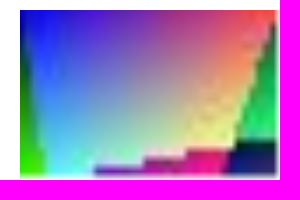
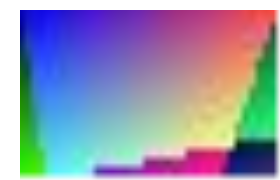
fix: use the metafile extent as the codec-jpeg playback reference
The 280x180 render is the metafile extent (header bounds 0..279 x 0..179);
the 9,600 pixels the 300x200 reference added were the probe's own magenta
surface. The reference is now cropped to the extent and the original surface
is kept as .surface.png.

Claude-Session: https://claude.ai/code/session_01AyRRnaFU7HEvaoGiQD4WB6

diff --git a/src/image-codec-native.test.ts b/src/image-codec-native.test.ts
@@ -197,3 +197,25 @@ it.each([
 	expect(exact).toBe(exactCount);
 	expect(max).toBeLessThanOrEqual(maxError);
 });
+
+// The probe plays each metafile onto a 300 x 200 magenta surface; the metafile (header bounds 0..279 x 0..179, frame 4338 x
+// 2784 hundredths of a millimetre) covers 280 x 180 of it. The margin right and below is the surface's own background, so the
+// reference is the 280 x 180 extent (as rendered) and the whole surface is kept as `.surface.png`.
+it.each(['12bit', 'arithmetic', 'arith-prog-420-dri2', 'cmyk-photo'])('the %s playback reference is the metafile extent, with the full surface kept beside it', async (name) => {
+	const file = `codec-jpeg-${name}-playback`;
+	const rendered = (await renderFixture(`${file}.emf`))!;
+	const reference = await loadReference(file);
+	const surface = await loadReference(`${file}.surface`);
+	expect([rendered.width, rendered.height]).toEqual([280, 180]);
+	expect([reference.width, reference.height]).toEqual([280, 180]);
+	expect([surface.width, surface.height]).toEqual([300, 200]);
+	for (let y = 0; y < surface.height; y++) {
+		for (let x = 0; x < surface.width; x++) {
+			const s = (y * surface.width + x) * 4;
+			if (x < 280 && y < 180) {
+				const r = (y * reference.width + x) * 4;
+				if (surface.data[s] !== reference.data[r] || surface.data[s + 1] !== reference.data[r + 1] || surface.data[s + 2] !== reference.data[r + 2]) throw new Error(`${file}: surface differs from reference at ${x},${y}`);
+			} else if (surface.data[s] !== 255 || surface.data[s + 1] !== 0 || surface.data[s + 2] !== 255) throw new Error(`${file}: surface margin is not magenta at ${x},${y}`);
+		}
+	}
+});

diff --git a/scripts/gdi-fixtures/CodecProbe.cs b/scripts/gdi-fixtures/CodecProbe.cs
@@ -62,7 +62,11 @@ public static class CodecProbe
 		{
 			g.Clear(Color.Magenta);
 			g.DrawImage(mf, new Rectangle(0, 0, mf.Width, mf.Height), 0, 0, mf.Width, mf.Height, GraphicsUnit.Pixel);
-			output.Save(Path.Combine(dir, "codec-jpeg-" + name + "-playback.png"), ImageFormat.Png);
+			// The whole 300 x 200 surface (the magenta margin right and below the metafile is the probe's own background, not
+			// playback output) is kept as .surface.png; the reference is the metafile's own extent, as the converter renders it.
+			output.Save(Path.Combine(dir, "codec-jpeg-" + name + "-playback.surface.png"), ImageFormat.Png);
+			using (var cropped = output.Clone(new Rectangle(0, 0, mf.Width, mf.Height), PixelFormat.Format32bppArgb))
+				cropped.Save(Path.Combine(dir, "codec-jpeg-" + name + "-playback.png"), ImageFormat.Png);
 		}
 	}
 	/// <summary>Rebuilds an EMR_COMMENT holding EMF+ records with the JPEG inside its image object replaced.</summary>

diff --git a/docs/outstanding-work.md b/docs/outstanding-work.md
@@ -8,13 +8,13 @@ Independent fractional RoundRect translation controls cover 576 paths in both ar
 
 ## Current parity priorities (8 October 2026)
 
-The full suite passes: 186 files, 6,328 tests (8 October 2026, after round 5). Passing the existing bounds does not mean pixel-exact playback. `bun scripts/gdi-fixtures/report.ts` uses available Windows fixture fonts, reports both zero-tolerance and >8-level RGB differences, includes overlap edges, and prints rendered/reference dimensions. On this machine (report regenerated on 8 October 2026 on the head that includes rounds 1 to 5; 420 of 625 and 417 of 625 at the end of round 4, 396 of 614 and 394 of 614 at the start of round 4; the comparison count grew by 112 with the round-5 sheets), 509 of 737 comparisons are RGB-exact over their common device area, with no render failures; 506 of 737 also have complete RGB ink coverage (503 before round 6) (white margins ignored, alpha checked separately only where individual tests require it). Only four `codec-jpeg-*-playback` comparisons (`12bit`, `arithmetic`, `arith-prog-420-dri2` and `cmyk-photo`) omit reference ink (9,600 reference pixels each, because their 280x180 render is smaller than the 300x200 reference; outside this workstream), and 11 contain rendered ink beyond the captured reference (18 before round 6) (the nine clipped references of References, the two regenerated raster-face captures `textx-fon-system.regen` and `textx-fon-fixedsys.regen`, whose output equals their own `.regen.wide` captures, `src/gdi-text-regeneration.fixture.test.ts`, and, before round 6, seven `compat-playback-*` sheets, the `geosq9` sheets of the identity, 32x11, 34 and 43 maps and the `wide7` sheets of the identity, 32x11 and 34 maps, where our output is 1 to 90 pixels larger than the 420 x 300 capture and 16 to 260 inked pixels fell outside it; round 6 played the seven natively into larger surfaces: the ink beyond the capture is at negative device coordinates (the converter canvas origins are -1 to -8 in x and -5 to -53 in y), Windows paints exactly those pixels and no others, the original overlap is reproduced pixel for pixel, and the differences over the full area equal the sheets' residuals in `src/emf-compat-playback.fixture.test.ts` (0, 0, 0, 2, 7, 55 and 6 pixels), so the extra ink was right and the 420 x 300 captures were the clipped side). Expanded native playback covers 101 formerly uncaptured extents and reproduces every original overlap pixel (`src/gdi-playback-extents.fixture.test.ts`); 71 of the 101 full-area controls are exact and the others differ chiefly in text. The remaining 9 captures did not reproduce the original reference; their native playback is committed as `.wide.png` and shows the converter extent is right. This is a local baseline, not a claim of full-image or cross-environment parity: references are composited over white, alpha is not compared independently, dimensions can differ, and old font captures have incomplete provenance.
+The full suite passes: 186 files, 6,328 tests (8 October 2026, after round 5). Passing the existing bounds does not mean pixel-exact playback. `bun scripts/gdi-fixtures/report.ts` uses available Windows fixture fonts, reports both zero-tolerance and >8-level RGB differences, includes overlap edges, and prints rendered/reference dimensions. On this machine (report regenerated on 8 October 2026 on the head that includes rounds 1 to 5; 420 of 625 and 417 of 625 at the end of round 4, 396 of 614 and 394 of 614 at the start of round 4; the comparison count grew by 112 with the round-5 sheets), 509 of 737 comparisons are RGB-exact over their common device area, with no render failures; 507 of 737 also have complete RGB ink coverage (503 before round 6) (white margins ignored, alpha checked separately only where individual tests require it). No comparison omits reference ink since round 6 (the four `codec-jpeg-*-playback` comparisons, `12bit`, `arithmetic`, `arith-prog-420-dri2` and `cmyk-photo`, used to: their 280x180 render was smaller than the 300x200 reference, 9,600 pixels each; the 9,600 pixels were the probe's own magenta surface, see References), and 11 contain rendered ink beyond the captured reference (18 before round 6) (the nine clipped references of References, the two regenerated raster-face captures `textx-fon-system.regen` and `textx-fon-fixedsys.regen`, whose output equals their own `.regen.wide` captures, `src/gdi-text-regeneration.fixture.test.ts`, and, before round 6, seven `compat-playback-*` sheets, the `geosq9` sheets of the identity, 32x11, 34 and 43 maps and the `wide7` sheets of the identity, 32x11 and 34 maps, where our output is 1 to 90 pixels larger than the 420 x 300 capture and 16 to 260 inked pixels fell outside it; round 6 played the seven natively into larger surfaces: the ink beyond the capture is at negative device coordinates (the converter canvas origins are -1 to -8 in x and -5 to -53 in y), Windows paints exactly those pixels and no others, the original overlap is reproduced pixel for pixel, and the differences over the full area equal the sheets' residuals in `src/emf-compat-playback.fixture.test.ts` (0, 0, 0, 2, 7, 55 and 6 pixels), so the extra ink was right and the 420 x 300 captures were the clipped side). Expanded native playback covers 101 formerly uncaptured extents and reproduces every original overlap pixel (`src/gdi-playback-extents.fixture.test.ts`); 71 of the 101 full-area controls are exact and the others differ chiefly in text. The remaining 9 captures did not reproduce the original reference; their native playback is committed as `.wide.png` and shows the converter extent is right. This is a local baseline, not a claim of full-image or cross-environment parity: references are composited over white, alpha is not compared independently, dimensions can differ, and old font captures have incomplete provenance.
 
 Work in this order, using native captures and tighter regression bounds for every confirmed fix:
 
 | Priority | Gap | Evidence and next step |
 | --- | --- | --- |
-| 1 | End-to-end reference validity and coverage | **Rounds 1 to 5 closed:** the playback extents (101 expanded captures validated, all reproduce their original overlap; round 6 added the seven `compat-playback-*` sheets whose output extends past the 420 x 300 capture), the nine ink-beyond-reference text comparisons as clipped references, the HALFTONE transition, selection and arrangement controls and the eight pen anchor/dash reference-scaling discrepancies. **Closed as not reproducible by a stateless converter:** `textx-fon-system` and `textx-fon-fixedsys` against their original PNGs, because the originals were drawn from the 96 dpi VGA raster set and this machine adds the 8514 faces (given the matching font set the converter reproduces both regenerated captures exactly). **Remains:** the glyph residuals of row 2; the four `codec-jpeg-*-playback` comparisons that omit reference ink (their 280x180 render is smaller than the 300x200 reference). The nine remaining ink-beyond-reference text comparisons are settled as clipped references (see References below), not output-extent errors; their glyphs were recaptured on 8 October 2026 (seven reproduce directly; the Arial gaps are recorded-advance differences, see References; Segoe UI large lines, the rotated text and the two raster faces are explained there as well and still differ from their originals), then the text residuals exposed by the 94 validated expanded native captures. `emfrec-ca-control-log-ramp` is now pixel-exact (it was a 15.61% >8-level residual: its source takes the filtered branch). The 144 `halftone-transitions`, 240 `halftone-selection` and 50 `halftone-arrangement` captures all follow the selection rule in the HALFTONE section below; all 50 arrangement controls and all 240 selection controls are exact (the 48 filtered 3x stretches closed on 8 October 2026, see HALFTONE below). The eight pen anchor/dash reference-scaling discrepancies are closed. |
+| 1 | End-to-end reference validity and coverage | **Rounds 1 to 5 closed:** the playback extents (101 expanded captures validated, all reproduce their original overlap; round 6 added the seven `compat-playback-*` sheets whose output extends past the 420 x 300 capture), the nine ink-beyond-reference text comparisons as clipped references, the HALFTONE transition, selection and arrangement controls and the eight pen anchor/dash reference-scaling discrepancies. **Closed in round 6:** the four `codec-jpeg-*-playback` comparisons (the 280x180 extent is right; the 300x200 reference carried 9,600 pixels of the probe's own magenta surface). **Closed as not reproducible by a stateless converter:** `textx-fon-system` and `textx-fon-fixedsys` against their original PNGs, because the originals were drawn from the 96 dpi VGA raster set and this machine adds the 8514 faces (given the matching font set the converter reproduces both regenerated captures exactly). **Remains:** the glyph residuals of row 2. The nine remaining ink-beyond-reference text comparisons are settled as clipped references (see References below), not output-extent errors; their glyphs were recaptured on 8 October 2026 (seven reproduce directly; the Arial gaps are recorded-advance differences, see References; Segoe UI large lines, the rotated text and the two raster faces are explained there as well and still differ from their originals), then the text residuals exposed by the 94 validated expanded native captures. `emfrec-ca-control-log-ramp` is now pixel-exact (it was a 15.61% >8-level residual: its source takes the filtered branch). The 144 `halftone-transitions`, 240 `halftone-selection` and 50 `halftone-arrangement` captures all follow the selection rule in the HALFTONE section below; all 50 arrangement controls and all 240 selection controls are exact (the 48 filtered 3x stretches closed on 8 October 2026, see HALFTONE below). The eight pen anchor/dash reference-scaling discrepancies are closed. |
 | 2 | Text coverage and rasterisation | **Rounds 1 to 5 closed:** grayscale quarter-pixel placement and coverage, ClearType sixth-pixel x origins, natural-width flags, the size-specific x SHPIX shifts, y DELTAPs after IUP[y], the instruction-budget bug, the monochrome default dropout control and grayscale SCANTYPE 0 and 4, the rotated-glyph matrix and the raster mapper's 5x horizontal stretch limit. **Closed as not reproducible by a stateless converter:** the per-product versus combined projection rounding of diagonal hinting (the native arithmetic of the references changes between runs on one machine, 2,492 of 31,584 captures; see Text, "Grayscale hinting and scan conversion"). **Remains:** ClearType diagonal and curved edges, Courier New, the stub rule for SCANTYPE 1 and 5, DrawString layout under ClearType, the stretch-sensitive heights of faces that follow neither rule; the data that would decide each is listed under Text. `textx-plus-antialias`, `textx-plus-antialiasgridfit`, `textx-plus-cleartype` and `gpx-rec-textcontrast` retain 3.11%, 2.49%, 9.55% and 2.84% beyond eight levels in the regenerated report of 8 October 2026 (the parity test's own metric gives 3.157%, 2.527% and 9.694% for the first three, and 10.216% for the ClearType sheet before the size-specific SHPIX and DELTAP rules). The three `textx-plus` antialias/ClearType PNGs were reproduced exactly with current native fonts, ruling out font drift for those comparisons. The 3,328 baseline-controlled `text-coverage` captures isolate glyphs from DrawString layout; 2,400 grayscale controls at quarter-pixel origins and every captured contrast mapping are exact. A further 1,664 ClearType captures verify 576 quarter-origin RGB controls and all per-channel contrast mappings. GDI+ coverage now truncates subpixel samples and reports natural widths to font hint programs. Fractional DriverString origins now preserve both grayscale phases and ClearType x phases. Of 144 independent DrawString controls, 88 closed glyph/format controls are exact. Independent 1/64-pixel x origins establish nearest-quarter grayscale placement: 1,280 additional controls are exact. A further 2,304 vertical-origin captures establish nearest-quarter grayscale y placement, closing another 1,280 controls with no capture regressions. Another 384 ClearType controls pin integer vertical placement. ClearType x origins now round to the nearest sixth pixel while retaining that fraction through scan conversion, closing 384 fine-origin RGB controls and preserving all prior exact captures. ClearType x hinting now honours native's size-specific SHPIX shifts (see Text): 80 more baseline-controlled ClearType controls are exact (Arial 16 `I`, `g`, `1`, `4`, `8`; 368 of the 832 contrast-0 captures, 288 before) and 3,720 new size/style captures go from 2,015 to 2,247 exact with one lost. Fine-origin channel differences fall from 42,600 to 22,432. Some formerly inexact captures retain larger local residuals; diagonal/base outline hinting remains open. Another 432 private diagnostic-font GetGlyphOutline controls isolate exact vector normalization and one-unit projection/movement errors. The candidate primitive correction regresses existing exact real-font controls and is not shipped. Another 1,728 independent GDI+ private-font captures pin 375 exact controls individually; the candidate still loses prior exact real-font controls and increases eleven formerly inexact diagnostic residuals. Another 576 signed native outlines and 2,304 signed GDI+ images isolate projection, original-distance scaling and movement arithmetic; 436 outlines and 1,344 signed images are currently exact with individual bounds. The candidate closes all signed outlines but increases four formerly inexact signed image residuals and still loses fifteen prior exact real-font controls, so it remains excluded from production. The fifteen are one glyph (`src/ttf-diagonal-projection.fixture.test.ts`): Arial 16 `y` under TextRenderingHintAntiAlias, fifteen origins that the two contrasts double to 30 captures, and the same candidate gains 64 captures of Times New Roman Italic 22 `a` (both AntiAlias and AntiAliasGridFit); over the 3,328 + 2 x 1,536 grayscale captures nothing else changes. The freedom-vector half of the candidate (`fDotP = 16384` when the vectors are equal) changes no capture, so the whole effect is the per-product projection. The first divergence in Arial `y` is an MDRP[0xC4] at byte 565 projecting the difference (142, -475) on (-15513, -5270): combined rounding gives 18, per-product 19, and native keeps 18 (the GDI diagnostic font `opcode-mdrp`, built from exactly these vectors and operands, follows per-product arithmetic through GetGlyphOutline, so classic GDI and GDI+ AntiAlias disagree on identical operands). Enumerating every assignment of the four (Arial) and four (Times New Roman Italic) disagreeing projections of the two glyphs and keeping the assignments that reproduce the native image determines three of them: Arial's MDRP project (142, -475) must be combined-rounded; Times New Roman Italic's MIRP dualProject (95, -52) and MDRP project (-16, -113) must be per-product rounded. The condition is therefore not the opcode (two MDRPs), not project against dualProject, not equal projection and freedom vectors (the Italic MDRP has them equal, Arial's does not, but the Italic MIRP's dual vector also differs from its freedom vector), and not a different rounding of the sum: truncating the exact sum fits all three determined projections but loses 576 closed captures, flooring it 574 (and gains 32), and rounding the exact sum to nearest, which is the production arithmetic, changes nothing. The two leads this left were followed in round 5 and neither separates the calls: the x coordinates of the v40 (ClearType-style) interpreter carrying more than 26.6 precision (unrounded x coordinates throughout, the crudest form, lose 2,819 and 4,349 captures), and GDI+ captures of the private diagnostic fonts through DrawDriverString with the AntiAlias hint (`text-opcode-coverage` and `text-vector-stage-coverage`, 3,072 and 2,560 images), because the references themselves change between runs. Round 5 (V1) closed this item as not reproducible by a stateless converter: no arithmetic condition separates the calls, and the exclusion tracks a native state that changes between runs (see Text, "Grayscale hinting and scan conversion"). |
 | 3 | Path-gradient and image-sampling arithmetic | **Rounds 1 to 5 closed:** uniform path gradients to the pixel without a focus (step count, nested copies, float32 copy index, tiles at fractional bounds, tips, pixels outside the boundary, pen, text and fill brushes), per-vertex surrounds as Gouraud fans, the measured integer cubic weights, reductions, mirrors and wraps of axis-aligned high-quality draws, the two-stage rotated draw, cropped vertical margins, DrawImage versus DrawImagePoints, and the positive end of the unit-scale Bicubic copy interval. **Remains, with the data that would decide it:** the ties of an isotropic focus and the strip solver of independent focus scales (a corner-triangle sweep with a focus, and one with independent scales, expose the float32 order of the per-axis copy test); the 24 step colours that native rounds up in the large captures (the number of steps from the centre colour); tiles with rotation, shear or per-vertex surrounds; the step of a reciprocal near a half and the few-unit position jitter (a grid of source widths and heights at 1.37x and 1.55x); the unit-scale vertical margin of cropped draws (the float32 evaluation order of the matrix inverse); rotated wrap rings and rotated Half at 45 degrees and 0.5x (rotated draws at integral lengths; the same draw from several world transforms); reduction ties at the end of the kernel; plain Bilinear arithmetic; the 40 of 252 focus-contour controls with 57 boundary pixels. Independent FocusScales, folded contour coverage and curve subdivision are corrected. Seven rectangle/ellipse controls and seven triangle controls are within one channel level; both collapsed triangle focus lines are within one channel level. Path-gradient steps are reproduced for uniform surrounds (see EMF+ gradients): the ellipse wrap fixtures now differ at zero tolerance on 0.9% of pixels (from 51–52%) and the Blend and 50/50 focus fixtures are exact; plain Bicubic PNG is RGB-exact across all 16,000 fixture pixels (previously 7,127 differing pixels, maximum seven). All 144 native arithmetic controls are exact, including premultiplied alpha (round 4: all 288 `hq-arithmetic` captures and, after round 5, 172 of 192 independent ones, `hq-arithmetic-bounds.json`). Another 384 independent phase captures improve from 347 to 384 exact (380 before round 5) with no per-case regression. Sixty-four independent crop/mirror controls improve from 10,474 to 132 differing pixels. SVG already offers device-resolution resampling through `imageResampling: 'exact'`; seven Chromium image/effect/transform controls match PNG RGB byte for byte in that mode. A chained exclusion clip is corrected, closing 4,000 SVG-vs-PNG pixels; native clip/z-order residuals remain ten one-level pixels. Default renderer scaling is preserved. High-quality interpolation had widespread 1–3-level errors; the measured integer cubic weights, destination-space reductions, mirrored and wrapped draws of round 4 bring the HighQuality image fixtures within one level (see EMF+ rotated high-quality DrawImage, which lists what is still open). Across 252 independent contour/order controls, 212 are within one level; the remaining 40 retain 57 boundary/overlap pixels beyond one level. Per-vertex surround colours are reproduced (see EMF+ gradients: 98.8% of 44,454 random-polygon pixels exact, the RGB triangles from 86% to 100% of pixels within a level). Anisotropic focus, the step count under rotation and shear and the rounding of the nested copies are reproduced too (see EMF+ gradients). Still open: the pixels on a slanted copy edge with an isotropic focus (without a focus every pixel on a copy's edge is reproduced by float32 arithmetic rounded toward minus infinity, and the tip pixels and the pixels outside the boundary are closed; see EMF+ gradients) and the strip solver's coverage pixels (tiles cut from fractional bounds are reproduced, tiles with a rotation, shear or per-vertex surrounds are not; see EMF+ gradients). Linear Blend tables are already exact. |
 | 4 | Red-eye, CMYK and HALFTONE generalisation | **Rounds 1 to 5 closed:** the HALFTONE enlargement kernel as a closed form (8,152 of 8,159 interior rows), the engine selection for mixed enlarge-and-reduce stretches, the one-axis reductions and dithered one-axis stretches, the despeckle weights and tie rule (6,400 blocks, 500 images) and the selection at reducing, fractional and wide scales; red-eye luma weights, carry, strength steps, fallback falloff and axis group. **Closed as not reproducible by a stateless converter:** the red-eye strength of an all-pure-red area after earlier calls (process state: 7 of 30 sequences differ between fresh processes), the red-eye output ties and symmetric scenes whose float32 centroid decides the axis pixels (the native accumulation is not observable from outside), and the last 0.26% of CMYK values (the module rounds twice and its integer arithmetic is not identified from its outputs; exact nodes would need about 400 KB against the 196 KB table). **Remains:** the seven kernel boundaries within 0.002 of a whole share and the tie rows at ratios just above 3, 4 and 15 (the same probe at every ratio with `(2x + 1) * n` divisible by `N`), the 0.15% to 0.3% colour-adjustment residual of dithered adjustments, alpha under HALFTONE. Red-eye Only playback retains 3/59/379 differing pixels (left/both/whole, from 12/68/380). The centroid weights are the redness over an integer luma `round((9 G + 2 B) / 11)` in every area, also those holding red of luma 0 (fresh-process captures showed that the earlier rule, previous weights for such areas, had been fitted to captures disturbed by earlier calls of the same process); the previous weights remain only for symmetric scenes whose float32 centroid is not exactly the pixel centre. The carry is the previous centroid once in pixel-index coordinates, the strength steps at luma spreads above 25, 40 and 80, a unique bright pixel is corrected completely with a halo of `5 d^2` levels, a centroid beyond the fallback circle falls back to the area middle with a falloff of at least `0.33 (1 - u)`, and the pixels exactly on the horizontal axis through the centroid are one sector group (the stage captures in `redeye-stages.json.gz`, `redeye-fresh`, `redeye-zero-fraction`, `redeye-fallback-strength` and `redeye-nudge` pin each). 170 of 192 independent (fresh-process) and 71 of 72 held-out controls are exact. Closed on 8 October 2026: (a) the strength of an all-pure-red area after earlier calls is process state, not a function of the area: 30 sequences run in 6 fresh processes each (`redeye-state.json.gz`) give different outputs for the same sequence in 7 cases (a pure-red 24 x 24 area after a spread-120 field removes 91 levels at the middle pixel in five processes and 30 in one), and the first call of a process is exact in 180 of 180 captures, which is what the converter reproduces; (c) the lone pixel beyond the fallback circle was a falloff, not a centre: 709 of 709 exact (from 571) with `max(strength (1 - u)^2, 0.33 (1 - u))`, 72 more on fields of four strengths; (d) output ties: half up on the final value matches 249 of 256 exact ties (a generator figure), the other 7 pixels follow native float noise (the red tie goes down, the green tie up) and rounding the amounts instead loses more than it gains, so this is not reproducible without the native arithmetic. What is left and what would decide it: (b) symmetric scenes whose weights are not exactly representable (blue 3 and 32 of the concentric patterns, the half-and-half and the uniform patterns, 17 of the 48 symmetric 31 x 31 scenes, and 18 of the 77 `redeye-nudge` scenes): the sign of the float rounding in the native centroid decides the axis pixels; an emulation of float32 sums in raster order with the luma weights reaches 37 of the 48 but raises four old residual ceilings and cannot reproduce the six blue 3 and 32 scenes under any variant of weight form, order or precision tried (the native accumulation order, precision and weight form are not observable from outside; a disassembly or an instrumented run would decide it). Another 216 central kernel captures close 72 nearest-branch controls and measure 96 filtered 2x/3x responses exactly. A fractional 2.37x impulse rejects the same integrated-tent formula (fourteen channel levels); the branch selector is shipped (including the give-up rule for heights equal to the least row count past 2,304 pixels, closed on 8 October 2026: 8,766 swept sources, `halftone-boundary.fixture.test.ts`), with the filtered branch for both axes enlarged by up to 5x (whole or fractional), either axis above 5x, one enlarged axis, mirrored blits, combined colour adjustments and mixed enlarge-and-reduce stretches of filtered sources (closed in round 5, see HALFTONE below). The enlargement-kernel formula is a closed form in round 5 (see HALFTONE: 8,152 of 8,159 interior rows). Keep the existing exact mixed-axis fixtures exact. |
@@ -150,6 +150,7 @@ Three additional parallel rounds ship four bounded runtime corrections: the half
 - Path-gradient alpha: 360 new native controls validate the uniform-surround correction. In the 120 independent uniform-alpha subgroup, pixels beyond one channel level fall from 145,136 to 16; controls within one level rise from 22 to 109. Varying surrounds and the prior 57 focus-boundary pixels beyond one level remain open. (8 October: varying surrounds are Gouraud fan triangles and closed, and all 120 of their independent controls have no pixel beyond one level (from 100 of 120 at the first closure); the uniform subgroup is now 110 of 120 within one level with 15 pixels beyond it, by the ceilings in `path-gradient-color-bounds.json`; the 57 focus-boundary pixels over 40 of the 252 contour controls are pinned in `emf-plus-focus-contours.fixture.test.ts` and still open.)
 - HALFTONE: discrete nearest-source runs and quantised tent weights reproduce 2,112 response lines. Vertical-first integer intermediate rounding predicts all 432 new central RGB crops, including 48 independent held-out controls, and all 144 prior filtered crops exactly. Content selection is now known (see the HALFTONE section) and the measured filtered engines (whole factors 2 to 5, above 5x, one enlarged axis) replace the nearest-run model for filtered sources; the run model was shipped afterwards for fractional ratios up to 5x on both axes, lone and 5-long runs included (see Filtered enlargement above); alpha is unverified.
 - References: all 101 expanded captures (94 and, from round 6, the seven `compat-playback-*` sheets) reproduce their original overlap exactly and regenerate byte-for-byte in isolated processes. Eight recordings require explicit recorded-frame/per-record playback. Four mixed-axis checker extents are now covered, leaving nine text comparisons open (below). The report retains 391/611 common-area exact comparisons and improves complete RGB ink coverage to 390/611, with no render failures or missing reference ink (8 October regeneration measures 393/611 and 392/611).
+- `codec-jpeg-{12bit,arithmetic,arith-prog-420-dri2,cmyk-photo}-playback` (round 6): the EMF header bounds are 0..279 x 0..179 and the frame is 4338 x 2784 hundredths of a millimetre, 280 x 180 pixels on this device, so the converter's 280x180 is the metafile extent. `CodecProbe.JpegPlayback` played the metafile onto a 300x200 magenta surface, and the 9,600 pixels right and below the metafile were that surface (all magenta, nothing else; no magenta inside the 280x180). Native playback was repeated on this machine (the four files regenerate pixel for pixel on the surface, including the 70, 1,974 and 534 one-level pixels of the three that decode, which are unchanged). The reference `.png` is now the 280x180 extent (`mf.Width` x `mf.Height`), the original 300x200 surface is kept as `.surface.png`, and `src/image-codec-native.test.ts` pins both (the surface margin is magenta, its 280x180 equals the reference). The recording `.emf` files were left as committed (a regeneration writes different bytes, same pixels).
 - Open extent candidates (`playback-extents-open.json`, `*.wide.png`, `src/gdi-playback-extents.fixture.test.ts`). Native `PlayEnhMetaFile` into a surface of the converter's own canvas size paints no ink outside our canvas in any of the nine, so no extent is wrong; the references are the clipped side. The report used the Windows fixture fonts (`arial`, `times`, `cour`, `segoeui`, `tahoma`, `micross` TrueType plus the raster `.fon` faces). The reference surface was the 480-px frame while the text runs on to x = 1,205 (the five Arial recordings: 21,426 native ink pixels beyond the PNG, 21,357 for `-ctnatural`), x = 959 (`textx-fon-fixedsys`, 13,652), x = 943 (`textx-fon-system`, 15,548), x = 675 (`textx-segoeui-cell-mono`, 2,023), plus one extra column in `rotate-text-25deg` (140). They are not promoted to `.extent.png` references because native playback does not reproduce their originals over the overlap, and only a reproduced overlap validates a capture: 503 differing pixels for each of the four non-natural Arial recordings (all in the 8-px first line, whose word gaps differ from the original; the four are natively byte-identical), 39,661 for `-ctnatural` (the original's natural-width advances are wider over the whole page), 21,624 (`fixedsys`), 12,850 (`fon-system`), 989 (`segoeui`, from y = 281) and 23 (`rotate-text-25deg`). Text glyph differences change pixels, not extents, so the extent verdict holds despite them. Two other large canvases validated and were added as `.extent.png` captures (94 in all, 68 exact): `emf-insideframe-rect` (556x293 from origin -47,-42; its recorded bounds are far looser than the drawing) and `emfrec-floodfill` (4,480x1,440 from its header bounds, whose width equals 2,560 + 1,920, plausibly the recording machine's virtual desktop but unverified; its playback returns FALSE natively, at the original size too). Recaptured here on 8 October 2026 (`src/gdi-text-regeneration.fixture.test.ts`, `text-recorded-advance.json`, `environment-text-recorded-advance.json`, `environment-text-raster-regen.json`; the generator gained `-OutDir` so regeneration goes to a scratch directory first): seven of the nine regenerate their original PNG pixel for pixel, so the font set was not the cause; no reference was replaced. The Arial differences (503 and 39,661 pixels) are the recording, not the converter: the EMF's dx array holds the ANTIALIASED_QUALITY widths (0 of 540 glyphs differ) while a direct drawing uses its own quality's widths (4 of 540 glyphs differ for qualities 0, 1, 2 and 5; 105 for ClearType natural), and drawing directly with the recorded dx equals native playback exactly (0 pixels), so the 8-px word gaps are not ours. Explained, not implemented (see also the rotated text below): the 989 Segoe UI pixels at the 36 and 56 cell lines are the playback's horizontal stretch of eyScale / exScale (1.000558 for these recordings) applied to the text, which Segoe UI's grid-fitting answers at nine of 57 cell heights (`TextPlaybackProbe.cs`, `text-playback-hinting.json`, `src/gdi-text-playback-hinting.fixture.test.ts`; direct drawing under diag(1.000558, 1) at the recorded advances equals playback for all 57 heights and for the committed sheet, 989 to 0). The threshold rule is now known empirically and pinned (`text-stretch-hinting.json.gz`, `src/gdi-text-stretch-hinting.fixture.test.ts`; native `GetGlyphOutline` of 23 glyphs at 18 faces x 65 cell heights x 82 stretches, no rasterisation): a height reacts when `M = round(32 E (1 + s))` differs from `M0 = round(32 E)` and, for Segoe UI, `|M / 32 - P| >= 15/16` (all 10,660 outcomes of cell and em heights), for Calibri and its siblings when `M` is not a multiple of 32 (see limitations.md). Rejected: a VDMX group boundary (the thresholds track the 1/32-pixel rounding of the exact em size `E`: every change point of the first 5e-6 sweep of Segoe UI sits on such a boundary, not on a VDMX ppem or its cell), a float32 `ceil` flip of the scale (the boundaries are the half-integers of `32 E (1 + s)` to the precision of the 1e-5 sweep), and an hdmx bypass (Calibri and Consolas have no hdmx and react at once; Arial has one and Segoe UI has one and the two differ). Windows' playback also reacts through the font's own `prep`: Segoe UI's disables glyph programs when GETINFO reports a stretched glyph whose x and y ppem agree, which is why reporting the flag to our interpreter reproduces the native outlines at every flagged height (60 of 60 committed outlines). Still open: why the faces split (the reaction is the font program's answer to an environment we can only infer: the stretched flag appears to be set by `|M / 32 - P| >= 15/16` for Segoe UI but by any fractional x size for Calibri, and Arial, Tahoma, Times New Roman and Courier New never switch), what the rasteriser hands the interpreter for larger stretches (at a few percent, 5% at 24 px, Segoe UI hints at a different integer x ppem, which is not modelled), and Georgia, Trebuchet MS and Microsoft Sans Serif, which follow neither rule. Not applied to the converter's output because the reference PNGs are direct drawings; data that would decide the mechanism: the rasteriser's own scale arithmetic (the stretched flag and the ppem it reports per direction). Explained, nothing to change: the 23 rotated-text pixels are the dx array (a rotated font's recorded advances are the running 1/16-pixel rounded linear advances, not the hinted widths; 98% of 46,620 recorded advances follow the rule and every advance at 5 and 25 degrees does, the rest are half-pixel ties whose direction Windows decides by angle, up at 5 and 25 degrees, down for 35 of 404 ties at 10 and 53 of 403 at 45 degrees; `rotated-text-advances.json.gz`, `src/gdi-text-playback-hinting.fixture.test.ts`), and the converter replays dx, so the 31 pixels it differed from the playback were glyph shapes: the rotated glyph matrix, now fitted (one pixel left; limitations.md). Open here: the rule that decides the half-pixel ties (a scalar scale on the cumulative position does not fit: ties at 30 and 60 degrees go down only at positions beyond about 170 pixels), how a rotated run drawn without dx is advanced (a direct rotated TextOutW matches neither the hinted nor the linear nor the recorded advances at 25 and 45 degrees), and how a face that keeps its grid-fitting under rotation (Tahoma: 8 of 810 native points of the unhinted model) is hinted along the rotated axes. The remaining 54% of native points of Arial, Times New Roman and Segoe UI that the rounded-rotation model misses are off by one 1/64 pixel (the rounding order inside GDI's fixed-point products is not identified: single or double rounding of the unhinted outline, floor, ceiling and truncation were fitted by coefficient search at 80% at best). Closed as not reproducible by a stateless converter given other fonts, nothing left to do for the raster faces System and Fixedsys: the difference between this machine and the one that made the originals is the installed raster set (evidence: both regenerated captures are reproduced exactly with the matching fonts, 0 of 28,896 and 16,138 pixels differ, and the originals match with the fixture set). At 144 dpi Windows serves System and Fixedsys from `8514sys.fon` and `8514fix.fon` (20 pixel cells; the stock fonts are those too) as well as the VGA faces the originals used; the converter reproduces each capture exactly when given the matching font set (`gdi-text-regeneration`, `gdi-raster-mapper` tests, `raster-mapper.json`, `RasterMapperProbe.cs`; `textx-fon-fixedsys` became exact when the too-big stretch cost of `pickRaster` went from 350 to 340 per pixel, which also fits one more of this machine's 840 mapper heights, 822 of 840 against 821 before). Not verified: that a 96 dpi session is what withholds the 8514 faces (the stock fonts and the picks are consistent with it; this machine's display cannot be switched and no memory, enhanced-metafile or DPI-unaware device context here reports another resolution, so a capture at 100% display scaling would decide it). The mapper is structurally closer: a face is stretched by up to 8 vertically and at most 5 horizontally (`raster-mapper-wide.json.gz`, the seven families at lfHeight -130..-61 and 61..130 and weight 700 at -60..60, `RasterMapperProbe.cs`; every native pick above 5x has the width of a 5x stretch, e.g. System 20 pixel at 7x: 140 high, 45 wide), and costing the factors 6 to 8 at 1,150, 1,280 and 1,840 (from a hill climb that leaves the 822 of 840 inner and 818 of 840 bold heights alone) lifts the lfHeight 61..130 agreement from 631 to 919 of 980; fitted on the 490 negative heights alone the same three costs pick 456 of the 490 positive ones (340 before). Not closed: the remaining 61 of those 980 and the 18 inner heights above (all with equal horizontal and vertical stretch, so independent scales are not the cause). No cost of the form gap-below + gap-above + factor can fit them: a linear program with a free cost per pixel of gap (below and above separately) and per factor leaves 122 of 1,820 requests unsatisfiable, and the picks alternate in ways no monotone cost gives (System, cell height 94, 95, 96, 97: 96 = 16x6, 100 = 20x5, 96, 100). Rejected: absolute and relative gaps, quadratic and square-root gap terms and a width-aspect term (none lowers the 122). A free cost per (face size, factor) does fit the 840 inner heights, but with about a hundred parameters and no formula. Data that would decide it: the same sweep at 100% and 125% display scaling (which sizes each session offers), or the mapper's own penalty arithmetic.
 
 ## GDI path geometry
